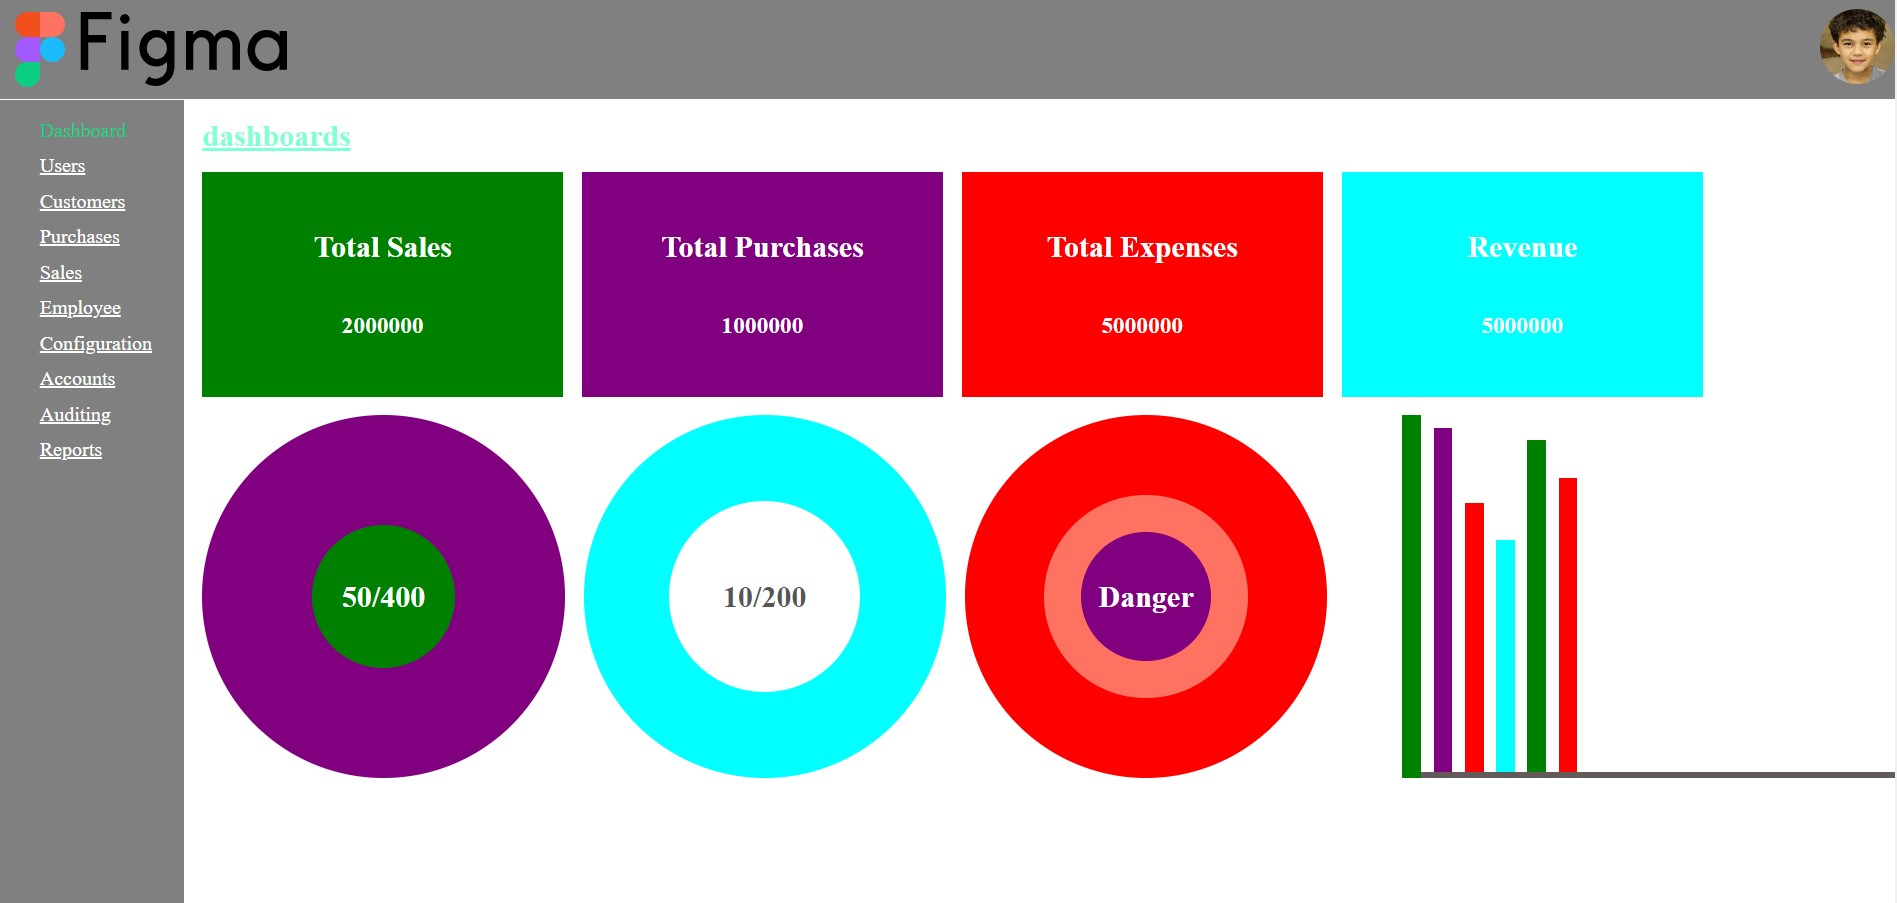
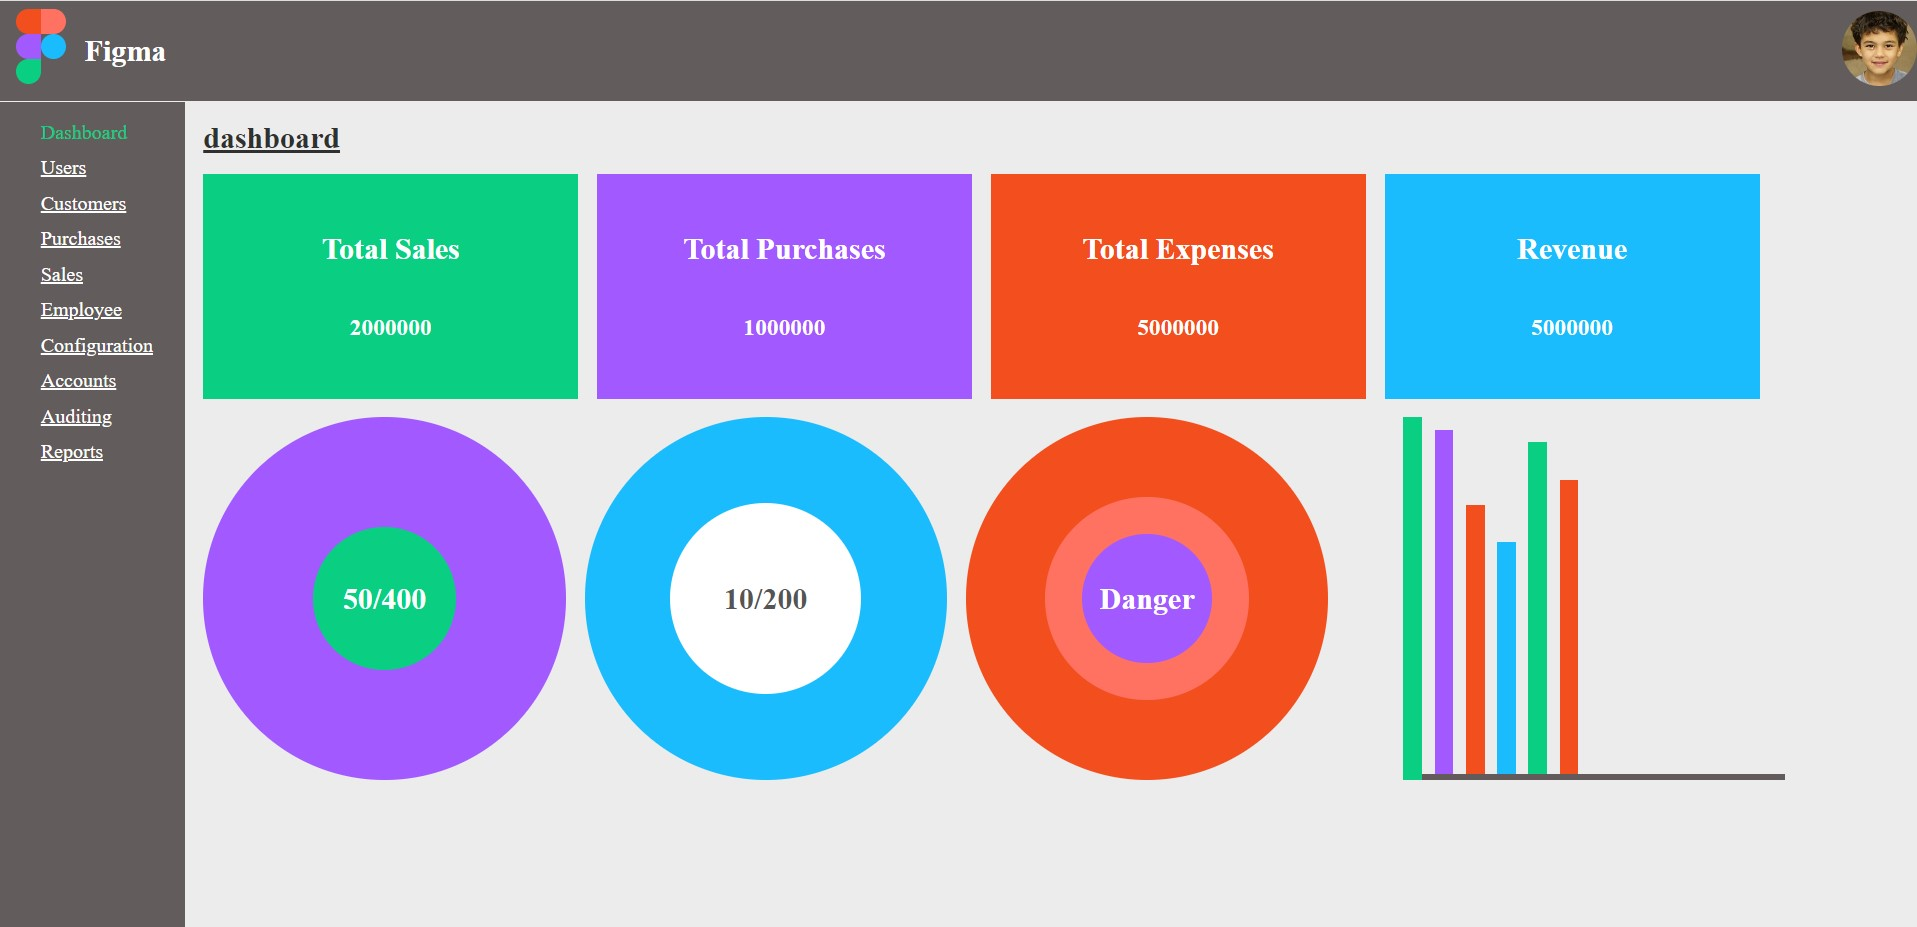
commiting coding-task

diff --git a/task-4/css/style.css b/task-4/css/style.css
@@ -1,14 +1,15 @@
 body {
-  background-color: white;
-  margin: auto;
+  background-color: #ececec;
+  margin: 0 auto;
 }
 #navbar {
-  background-color: gray;
+  background-color: #625c5c;
   height: 80px;
   display: flex;
   align-items: center;
-  justify-content: space-evenly;
-  border-bottom: 1px solid white;
+  justify-content: space-between;
+  align-items: center;
+  border-bottom: 1px solid #ececec;
 }
 #logo-container {
   float: left;
@@ -37,32 +38,32 @@ body {
   height: calc(100vh - 81px);
 }
 #sidebar {
-  background-color: gray;
+  background-color: #625c5c;
   height: 100%;
   width: 150px;
   float: left;
 }
 #container > h2 {
-  color: black;
+  color: #303030;
   margin: 0 0 15px 0;
   text-decoration: underline;
 }
 #container {
   padding: 15px;
   float: left;
-  width: 80%;
+  width: calc(100vw - 200px);
 }
 .green-bg {
-  background-color: green;
+  background-color: #0ace82;
 }
 .purple-bg {
-  background-color: purple;
+  background-color: #a259ff;
 }
 .red-bg {
-  background-color: red;
+  background-color: #f34e1e;
 }
-.cyan-bg {
-  background-color: cyan;
+.blue-bg {
+  background-color: #1abcfd;
 }
 #tile-container,
 #circle-container {
@@ -71,7 +72,10 @@ body {
 #tile-container {
   margin-bottom: 15px;
 }
-.tile {
+.tile{
+  height: 200px;
+}
+.tile, .circle, .chart{
   height: 130px;
   width: 250px;
   float: left;
@@ -188,7 +192,7 @@ body {
   height: calc(100% - 50px);
 }
 .line {
-  width: 250%;
+  width: 100%;
   height: 5px;
   background-color: #625b5b;
   position: absolute;

diff --git a/task-4/index.html b/task-4/index.html
@@ -11,6 +11,7 @@
     <div id="navbar">
       <div id="logo-container">
         <img src="image/figma.svg" alt="logo" />
+        <h2>Figma</h2>
       </div>
       <div id="profile-container">
         <img src="image/headpose.jpg" alt="logo" />
@@ -46,7 +47,7 @@
             <h2>Total Expenses</h2>
             <h3>5000000</h3>
           </div>
-          <div class="tile cyan-bg">
+          <div class="tile blue-bg">
             <h2>Revenue</h2>
             <h3>5000000</h3>
           </div>
@@ -57,7 +58,7 @@
               <h2>50/400</h2>
             </div>
           </div>
-          <div class="circle cyan-bg">
+          <div class="circle blue-bg">
             <div class="inner-two">
               <h2>10/200</h2>
             </div>
@@ -73,7 +74,7 @@
             <div class="bar green-bg one"></div>
             <div class="bar purple-bg two"></div>
             <div class="bar red-bg three"></div>
-            <div class="bar cyan-bg four"></div>
+            <div class="bar blue-bg four"></div>
             <div class="bar green-bg five"></div>
             <div class="bar red-bg six"></div>
             <div class="line"></div>
